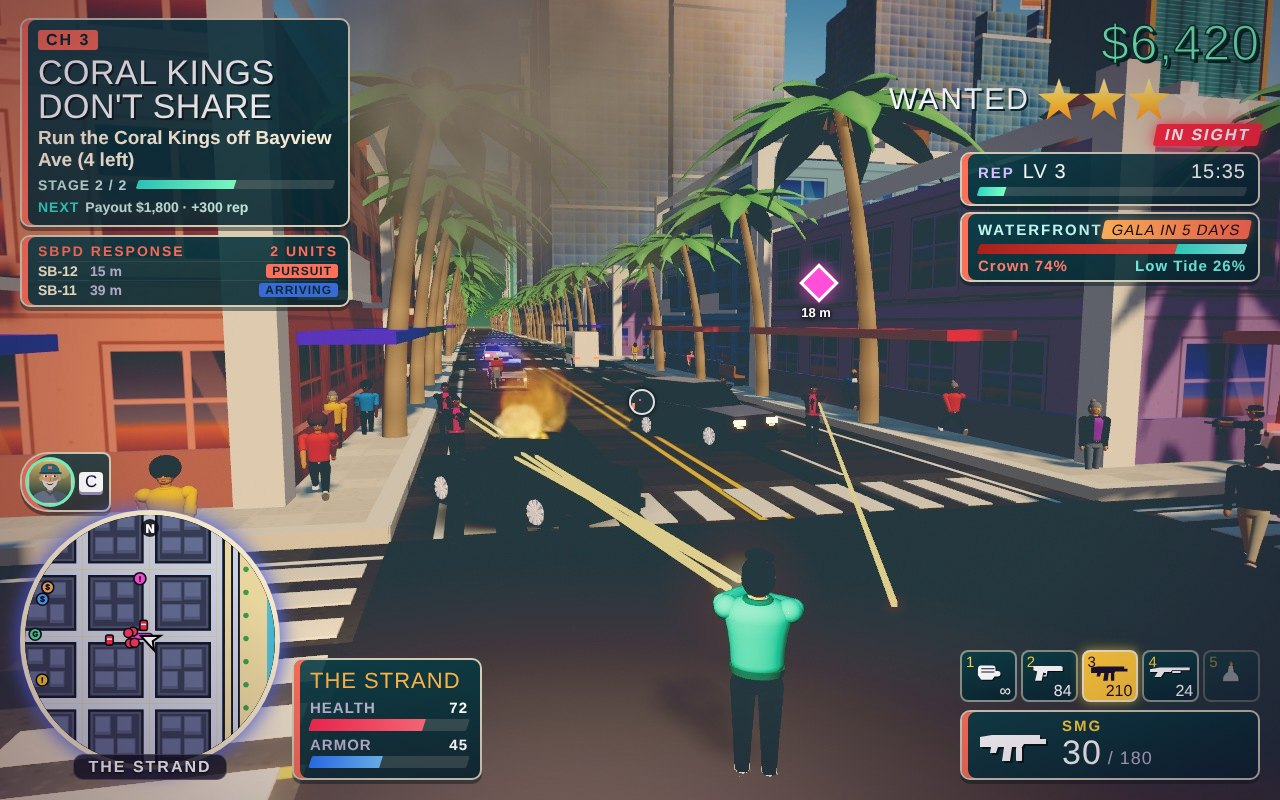
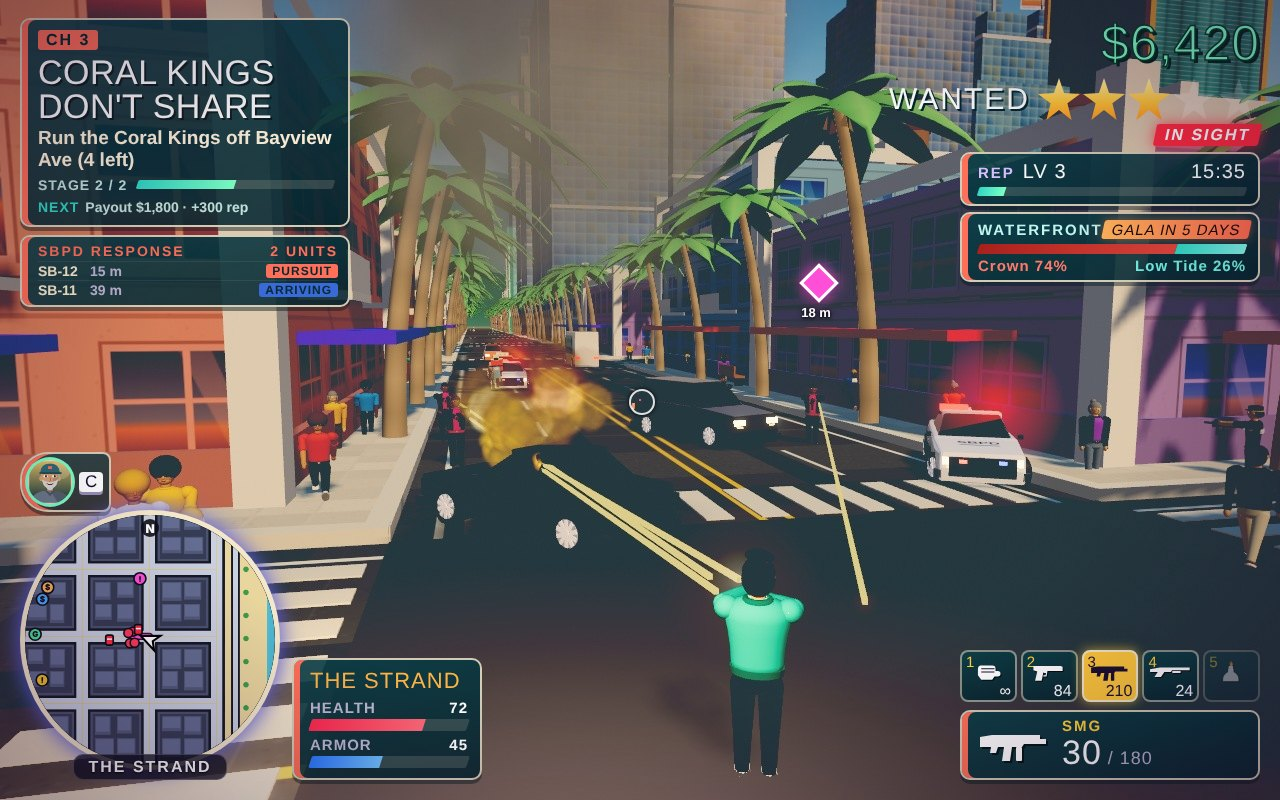
Distance culling for people and vehicles (hidden when far, shadows only near the camera) so the denser streets draw about as cheaply as before; firefight shot: closer burning car, SBPD cruiser in view, runners near the camera
Claude-Session: https://claude.ai/code/session_01KYFnKsdg5D9jxoFvsNJNKP

diff --git a/game/src/shots/streetFightScene.js b/game/src/shots/streetFightScene.js
@@ -27,8 +27,8 @@ export function streetFight(api) {
   });
   G.mission.enemies = gang;
   // the sedan they shot up burns in the middle of the street
-  const burner = carAt('marlin', JX - 9, JZ + 4.6, WEST + 0.6, { tint: 0x2f7fd8 }); wreck(burner);
-  for (let i = 0; i < 130; i++) { G.time += 1 / 60; updateEffects(1 / 60); if (i > 90 && i % 4 === 0) fire(burner.x + (i % 3 - 1) * 0.6, 1.1, burner.z); } // two seconds on: the fireball has burned down to a roaring car fire
+  const burner = carAt('marlin', JX - 7.5, JZ + 4.4, WEST + 0.7, { tint: 0x2f7fd8 }); wreck(burner);
+  for (let i = 0; i < 130; i++) { G.time += 1 / 60; updateEffects(1 / 60); if (i > 84 && i % 3 === 0) fire(burner.x + (i % 3 - 1) * 0.7, 1.1 + (i % 2) * 0.4, burner.z + ((i >> 2) % 3 - 1) * 0.5); } // two seconds on: the fireball has burned down to a roaring car fire
   // Nico at the corner, SMG up, firing down the street
   p.x = F.nico[0]; p.z = F.nico[1]; p.yaw = Math.atan2(gang[0].x - p.x, gang[0].z - p.z) + 0.05; p.aim = true; p.mesh.visible = true; p.mesh.position.set(p.x, 0, p.z); p.mesh.rotation.y = p.yaw; setGun(p.mesh, 'smg'); animateWalk(p.mesh, 0, 0, true);
   const muzzle = (a, yaw) => ({ x: a.x + Math.sin(yaw) * 0.9 + Math.cos(yaw) * 0.2, y: 1.35, z: a.z + Math.cos(yaw) * 0.9 - Math.sin(yaw) * 0.2 });
@@ -38,7 +38,7 @@ export function streetFight(api) {
   burst(p, p.yaw, gang[2], WEAPONS[2], 'player'); // the round leaving the muzzle now
   // SBPD rolling in: one from the far junction, one braking out of the cross street, an officer out with a pistol
   copAt(JX - 38, JZ + 3.5, EAST, { speed: 12, ai: 'ARRIVING' });
-  copAt(JX - 5.5, JZ - 10.5, SOUTH + 0.7, { speed: 8, ai: 'PURSUIT', steer: 0.4 });
+  copAt(JX - 10.5, JZ - 6.5, SOUTH + 1.05, { speed: 8, ai: 'PURSUIT', steer: 0.45 });
   personAt('cop', JX - 7.5, JZ - 11.5, Math.atan2(-2, 1), { style: STYLES.cop, gun: 'pistol', aim: true, stride: 0 });
   // traffic stopped dead around the junction
   trafficAt('x', 6, JX - 46, 1, 'tupelo', undefined, 0); trafficAt('x', 6, JX - 58, -1, 'calder', 0x8e5ad8, 0); trafficAt('x', 6, JX - 70, 1, 'pico', 0xff8a3d, 0);
@@ -48,7 +48,7 @@ export function streetFight(api) {
   const run = (x, z, yaw, i) => personAt('ped', x, z, yaw, { run: true, phase: i * 1.9 });
   [[JX - 16, JZ + 9.3], [JX - 10, JZ + 8.6], [JX - 5, JZ + 9.6], [JX - 19, JZ + 8.8]].forEach(([x, z], i) => run(x, z, EAST + 0.15, i));
   [[JX - 15, JZ - 9.1], [JX - 9, JZ - 8.7], [JX - 22, JZ - 9.4]].forEach(([x, z], i) => run(x, z, EAST - 0.2, i + 4));
-  [[JX - 3, JZ - 6], [JX - 1, JZ + 11.5]].forEach(([x, z], i) => run(x, z, i ? SOUTH : NORTH + 0.4, i + 8));
+  [[JX - 3, JZ - 6], [JX - 1, JZ + 11.5], [JX - 4, JZ + 9.6], [JX - 2.2, JZ + 8.4]].forEach(([x, z], i) => run(x, z, i === 0 ? NORTH + 0.4 : i === 1 ? SOUTH : EAST + 0.5, i + 8));
   strollers(JX - 34, JZ + 9.2, JX - 70, JZ + 9.2, 6); strollers(JX - 34, JZ - 9.2, JX - 70, JZ - 9.2, 5); strollers(JX + 9.2, JZ - 14, JX + 9.2, JZ - 50, 5);
   setStars(3); G.wanted.heat = 3.4; updateSirens(0.1); updateLineOfSight(1);
   G.exposure = 1.14; if (G.post) Object.assign(G.post.params, { bloom: 0.16, threshold: 1.6, vignette: 0.12 });

diff --git a/game/src/render/distanceCulling.js b/game/src/render/distanceCulling.js
@@ -1,0 +1,19 @@
+// Keeps busy streets cheap to draw: a few times a second, people and vehicles far from the camera are hidden (they are
+// a few pixels tall there and fog covers them) and only those near the camera cast shadows, so the extra traffic and
+// crowds cost draw calls only where they can be seen. Distances shrink on the lower quality tiers.
+import { G } from '../core/gameState.js';
+
+const TIER = { High: 1, Medium: 0.9, Low: 0.75, Lowest: 0.65, Minimal: 0.55 };
+const PEOPLE = { show: 115, shadow: 42 }, VEHICLES = { show: 170, shadow: 70 };
+let t = 0;
+function apply(obj, d, lim, k) {
+  const show = d < lim.show * k, shadow = show && d < lim.shadow * k, m = obj.mesh, u = m.userData;
+  if (m.visible !== show) m.visible = show;
+  if (u.shadowOn !== shadow) { u.shadowOn = shadow; m.traverse((o) => { if (o.isMesh && o.material && !o.material.transparent) o.castShadow = shadow; }); }
+}
+export function updateDistanceCulling(dt) {
+  t -= dt; if (t > 0 || !G.camera || G.shot) return; t = 0.3;
+  const c = G.camera.position, k = TIER[G.quality] ?? 1, p = G.p;
+  for (const a of G.actors) apply(a, Math.hypot(a.x - c.x, a.z - c.z), PEOPLE, k);
+  for (const v of G.cars) if (v !== p.car && v.mesh) apply(v, Math.hypot(v.x - c.x, v.z - c.z), VEHICLES, k);
+}

diff --git a/game/src/core/simulation.js b/game/src/core/simulation.js
@@ -29,6 +29,7 @@ import { updateBoatGunfight } from '../combat/boatGunfight.js';
 import { updateMarina } from '../world/marina.js';
 import { updateGasBottles } from '../combat/gasBottles.js';
 import { trackMovement } from './careerStats.js';
+import { updateDistanceCulling } from '../render/distanceCulling.js';
 
 let pedT = 0;
 export function stepGame(dt) {
@@ -46,5 +47,5 @@ export function stepGame(dt) {
     updateRadio();
   } else sfx.engine(false, 0, 0);
   if (G.mode === 'dead') { G.deadT += dt; if (G.deadT > 3.6) respawn(); }
-  updateEffects(dt); updateSirens(G.time); animateSea(G.time);
+  updateEffects(dt); updateSirens(G.time); animateSea(G.time); updateDistanceCulling(dt);
 }
